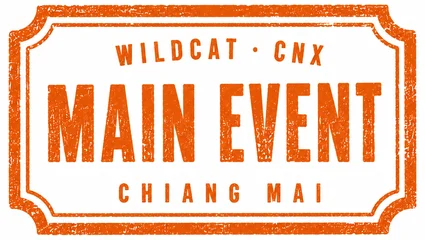
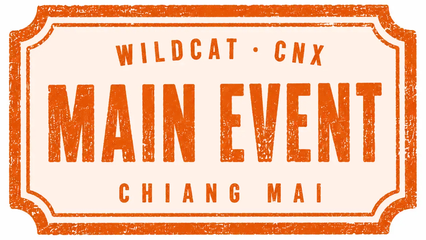
feat(fighters): complete ink stamp set (10 assets) + alpha pipeline
- pipeline v2 : blanc -> alpha (unmultiply numpy), seule l'encre
  subsiste en RGBA ; halo blanc die-cut (drop-shadows empiles) cote
  CSS pour la lisibilite quand le stamp mord sur la photo
- 10 assets traites (sources Jonathan, 41-73 KB chacun) ->
  public/assets/stamps/ ; STAMP_ASSETS complet, fallback CSS conserve
  pour toute valeur future
- chevauchement stamps cards reduit (-10px -> -4px)

diff --git a/tests/process-stamp.py b/tests/process-stamp.py
@@ -1,30 +1,55 @@
 # Pipeline assets stamps du livre d'or : trim du blanc (bbox de l'encre + marge),
+# conversion blanc -> alpha (unmultiply : seule l'encre subsiste, en RGBA),
 # resize hauteur max, export webp -> public/assets/stamps/stamp-{slug}.webp.
-# Usage : python tests/process-stamp.py "<input.png>" <slug>
-#         python tests/process-stamp.py "C:/.../image.png" main-event
+# Le rendu carte ajoute un halo blanc (drop-shadow) pour la lisibilite sur photo.
+# Usage : python tests/process-stamp.py "<input>" <slug>
 import sys
 from pathlib import Path
 
+import numpy as np
 from PIL import Image
 
-# L'encre est rendue a ~56px de haut (multiply) ; 240px = marge retina x4 confortable.
+# L'encre est rendue a ~56px de haut ; 240px = marge retina x4 confortable.
 MAX_HEIGHT = 240
-WHITE_THRESHOLD = 242  # en dessous (sur un canal min) = encre
+WHITE_THRESHOLD = 242  # en dessous (luminance min) = encre, pour la bbox
 MARGIN_PCT = 0.02  # 2% de marge autour de la bbox
 OUT_DIR = Path(__file__).resolve().parent.parent / "public" / "assets" / "stamps"
 
 
-def process(src: Path, slug: str) -> Path:
-    img = Image.open(src).convert("RGB")
+def flatten_on_white(img: Image.Image) -> Image.Image:
+    """Aplatie les sources detourees (alpha) sur blanc avant traitement."""
+    if img.mode in ("RGBA", "LA", "P"):
+        rgba = img.convert("RGBA")
+        flat = Image.new("RGB", rgba.size, (255, 255, 255))
+        flat.paste(rgba, mask=rgba.split()[-1])
+        return flat
+    return img.convert("RGB")
 
-    # Masque encre : pixel dont le canal le plus sombre passe sous le seuil
+
+def white_to_alpha(img: Image.Image) -> Image.Image:
+    """Unmultiply depuis un fond blanc : alpha = 1 - min(R,G,B)/255,
+    couleur = (C - (1-a)*255) / a. Composite sur blanc == source exacte ;
+    sur fond sombre, seule l'encre apparait (vrai tampon)."""
+    arr = np.asarray(img, dtype=np.float64) / 255.0
+    alpha = 1.0 - arr.min(axis=2)
+    safe = np.maximum(alpha, 1e-6)[..., None]
+    color = (arr - (1.0 - alpha[..., None])) / safe
+    color = np.clip(color, 0.0, 1.0)
+    color[alpha < 1e-3] = 0.0
+    out = np.dstack([color, alpha[..., None]])
+    return Image.fromarray((out * 255.0 + 0.5).astype(np.uint8), "RGBA")
+
+
+def process(src: Path, slug: str) -> Path:
+    img = flatten_on_white(Image.open(src))
+
+    # Bbox de l'encre : pixel dont la luminance passe sous le seuil
     gray = img.convert("L")
     mask = gray.point(lambda v: 255 if v < WHITE_THRESHOLD else 0)
     bbox = mask.getbbox()
     if not bbox:
         raise SystemExit(f"Aucune encre detectee dans {src} (seuil {WHITE_THRESHOLD})")
 
-    # Marge proportionnelle, clampee aux bords
     mw = round((bbox[2] - bbox[0]) * MARGIN_PCT)
     mh = round((bbox[3] - bbox[1]) * MARGIN_PCT)
     bbox = (
@@ -39,11 +64,13 @@ def process(src: Path, slug: str) -> Path:
         ratio = MAX_HEIGHT / img.height
         img = img.resize((round(img.width * ratio), MAX_HEIGHT), Image.LANCZOS)
 
+    img = white_to_alpha(img)
+
     OUT_DIR.mkdir(parents=True, exist_ok=True)
     out = OUT_DIR / f"stamp-{slug}.webp"
     img.save(out, "WEBP", quality=85)
     kb = out.stat().st_size / 1024
-    print(f"{out.name}: {img.width}x{img.height}, {kb:.0f} KB (source {src.name})")
+    print(f"{out.name}: {img.width}x{img.height} RGBA, {kb:.0f} KB (source {src.name})")
     return out
 
 
